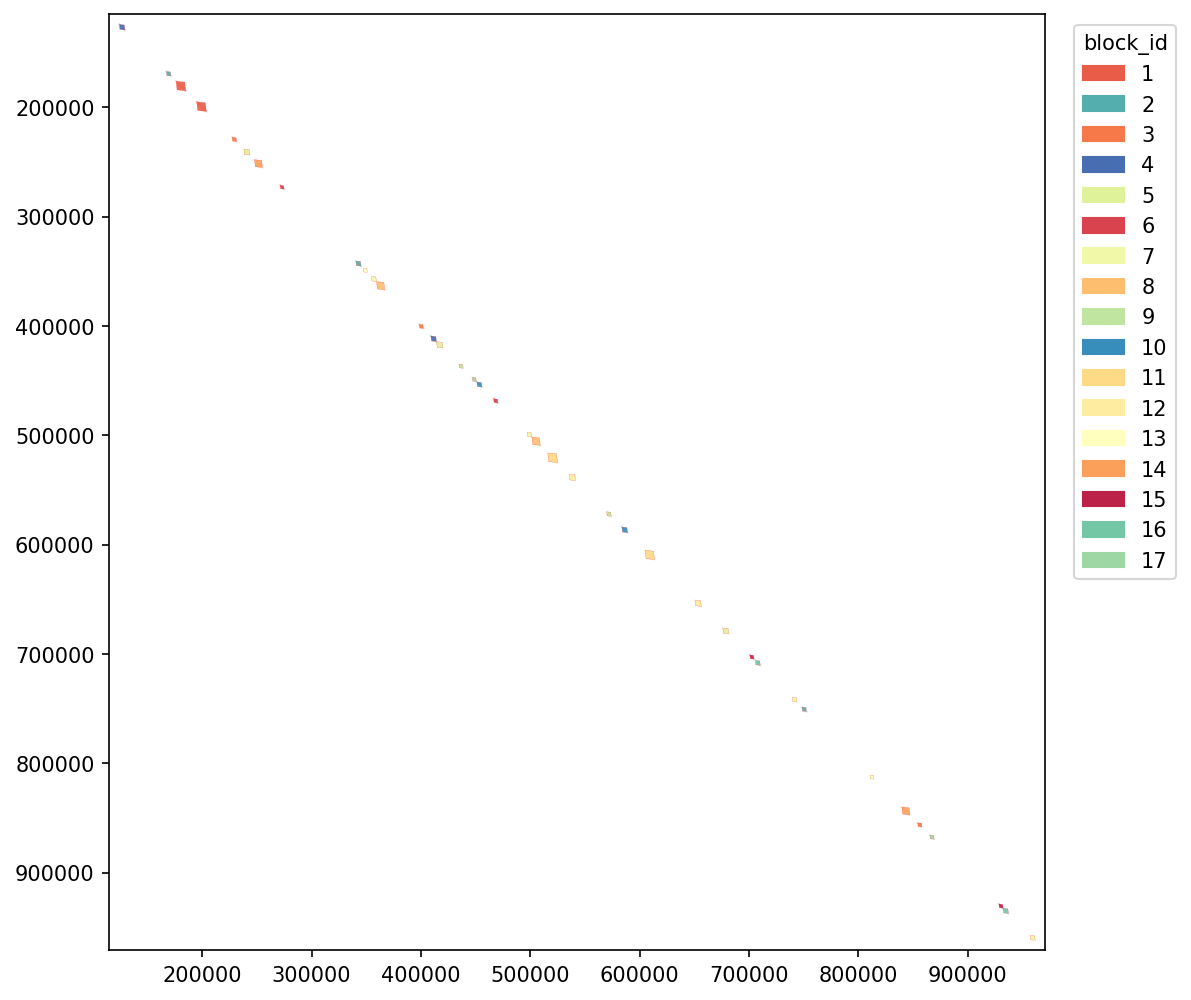
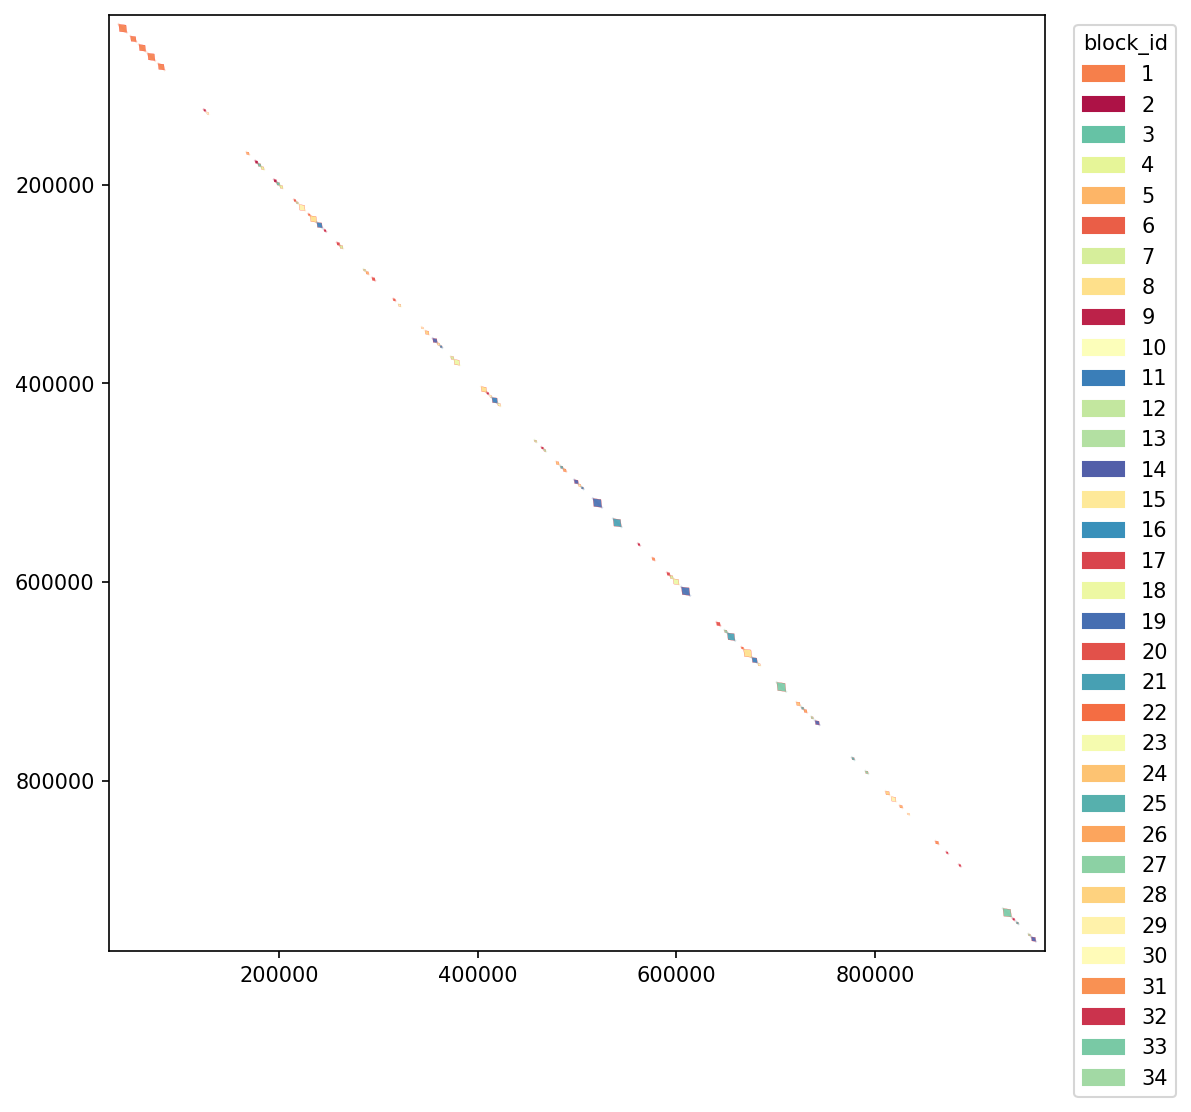
immloom (self)

diff --git a/src/immloom/segments.py b/src/immloom/segments.py
@@ -31,6 +31,8 @@ def merge_segments(df: pd.DataFrame, dist_max: float = 0.0) -> pd.DataFrame:
     """
     merged = []
     merged_idx = []
+    df = df.reset_index(drop=True)
+    df['idx_0'] = df.index
     for strand in ['+', '-']:
         dfs = df[df.strand == strand].sort_values(['x1', 'y1']).reset_index(drop=True)
         G = nx.Graph()
@@ -56,7 +58,7 @@ def merge_segments(df: pd.DataFrame, dist_max: float = 0.0) -> pd.DataFrame:
                     'x1': int(x1), 'x2': int(x2),
                     'y1': int(y1), 'y2': int(y2),
                     'strand': strand})
-                merged_idx += list(segs.index)
+                merged_idx += list(segs['idx_0'])
     merged_df = pd.DataFrame(merged)
     not_merged_df = df.drop(index=merged_idx, errors='ignore')
     df1 = pd.concat([merged_df, not_merged_df], ignore_index=True).sort_values(['x1', 'y1', 'x2', 'y2'])

diff --git a/scripts/run_pipeline.py b/scripts/run_pipeline.py
@@ -9,9 +9,9 @@ def main():
     p.add_argument("--input-file", required=True)
     p.add_argument("--out-dir", default="./immloom_out")
     p.add_argument("--pi-min", default=80.0)
-    p.add_argument("--segm-length-min", default=5000)
-    p.add_argument("--dist-max", default=5000)
-    p.add_argument("--block-length-min", default=5000)
+    p.add_argument("--segm-length-min", default=2500)
+    p.add_argument("--dist-max", default=2500)
+    p.add_argument("--block-length-min", default=2500)
     p.add_argument("--inv-plot", action="store_true", 
                    help="If set, produce inversion plot (default: false)")
     args = p.parse_args()

diff --git a/src/immloom/pipeline.py b/src/immloom/pipeline.py
@@ -98,6 +98,7 @@ def run_pipeline(input_path: Path,
     df11 = df10[(df10.x1!=df10.y1) | (df10.x2!=df10.y2)].reset_index(drop=True)
     df11.loc[:,'proj_id_x'] = df11.apply(lambda r: find_overlap(r, dsegm1, axis='x'), axis=1)
     df11.loc[:,'proj_id_y'] = df11.apply(lambda r: find_overlap(r, dsegm1, axis='y'), axis=1)
+    df11.to_csv('test', sep='\t')
     edges = (df11[['proj_id_x', 'proj_id_y']].values.tolist())
     edges = [tuple(edge) for edge in edges if ((edge[0] != edge[1]) & (edge[0] != -1) & (edge[1] != -1))]
     G = nx.Graph()
